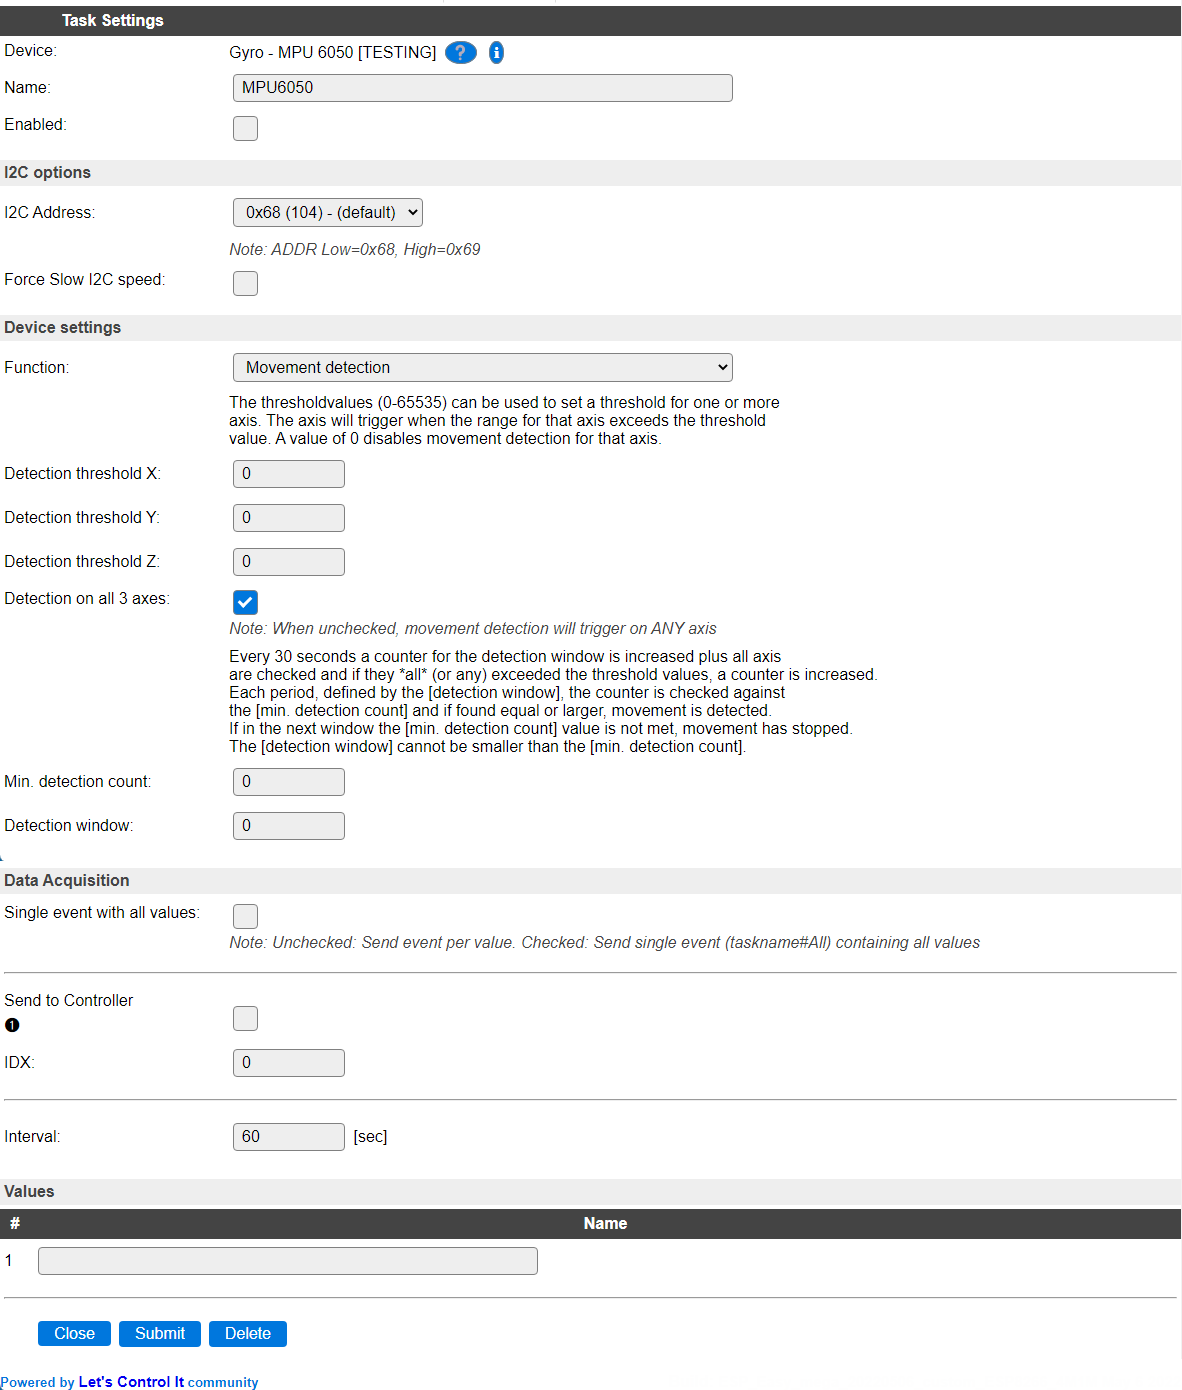
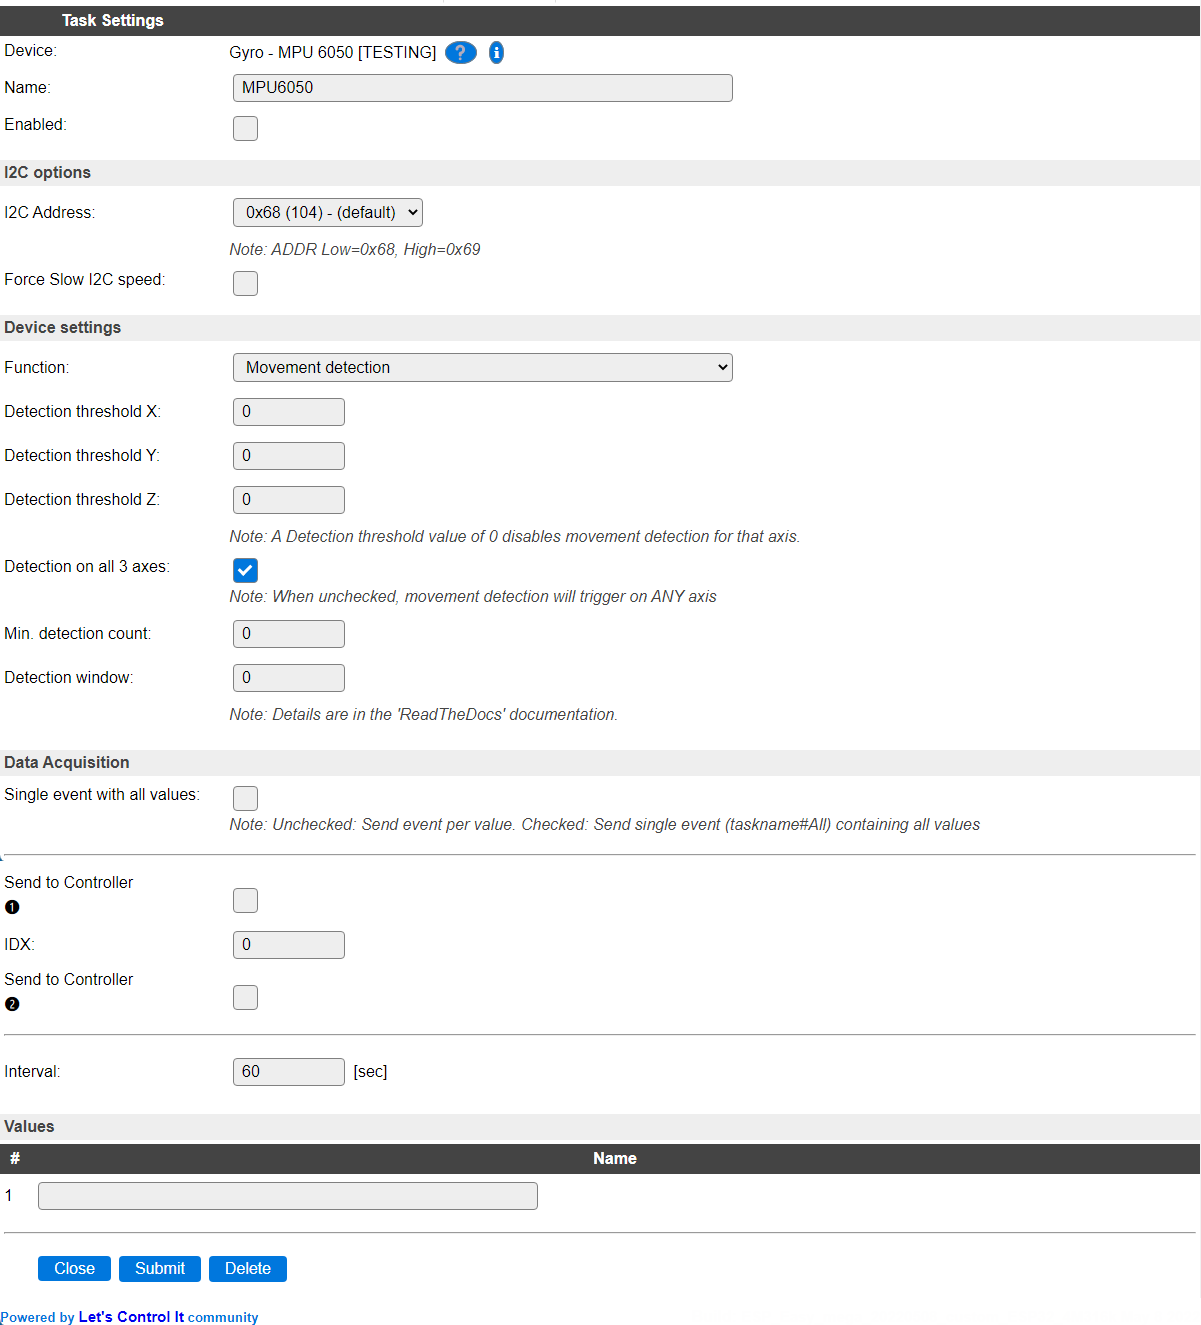
[P045] Move descriptions from Device configuration to documentation

diff --git a/docs/source/Plugin/P045.rst b/docs/source/Plugin/P045.rst
@@ -59,7 +59,7 @@ Movement detection
 
 When selecting the **Movement detection** function, additional configuration is required for setting up the threshold and movement- and 'silence'- windows.
 
-The threshold can be configured per X, Y and Z axis, where the axis is ignored if the threshold is set to 0. An actual threshold can be determined by selecting one of the Acceleration X/Y/Z functions, and making note of the value measured while an expected movement is applied to the sensor.
+The Detection threshold can be configured per X, Y and Z axis (range 0..65535) and will be triggered when it exceeds the set threshold, where the axis is ignored if the threshold is set to 0. An actual threshold can be determined by selecting one of the Acceleration X/Y/Z functions, and making note of the value measured while an expected movement is applied to the sensor.
 
 * **Detection on all 3 axes** When this option is enabled, all 3 axes need to exceed the configured threshold for the counter to be increased. When disabled, only one of the axis need to exceed the threshold to cause an increment.
 
@@ -67,6 +67,11 @@ The threshold can be configured per X, Y and Z axis, where the axis is ignored i
 
 * **Detection window** The number of interval passes before the counter is actually increased.
 
+Every 30 seconds a counter for the detection window is increased plus all axis are checked and if they *all* (or any when **Detection on all 3 axes** is unchecked) that are enabled exceeded the threshold values, a counter is increased.
+
+Each period, defined by the **Detection window**, the counter is checked against the **Min. detection count** and if found equal or larger, movement is detected.
+
+If in the next window the **Min. detection count** value is not met, movement has stopped. The **Detection window** cannot be smaller than the **Min. detection count**.
 
 Data Acquisition
 ^^^^^^^^^^^^^^^^
